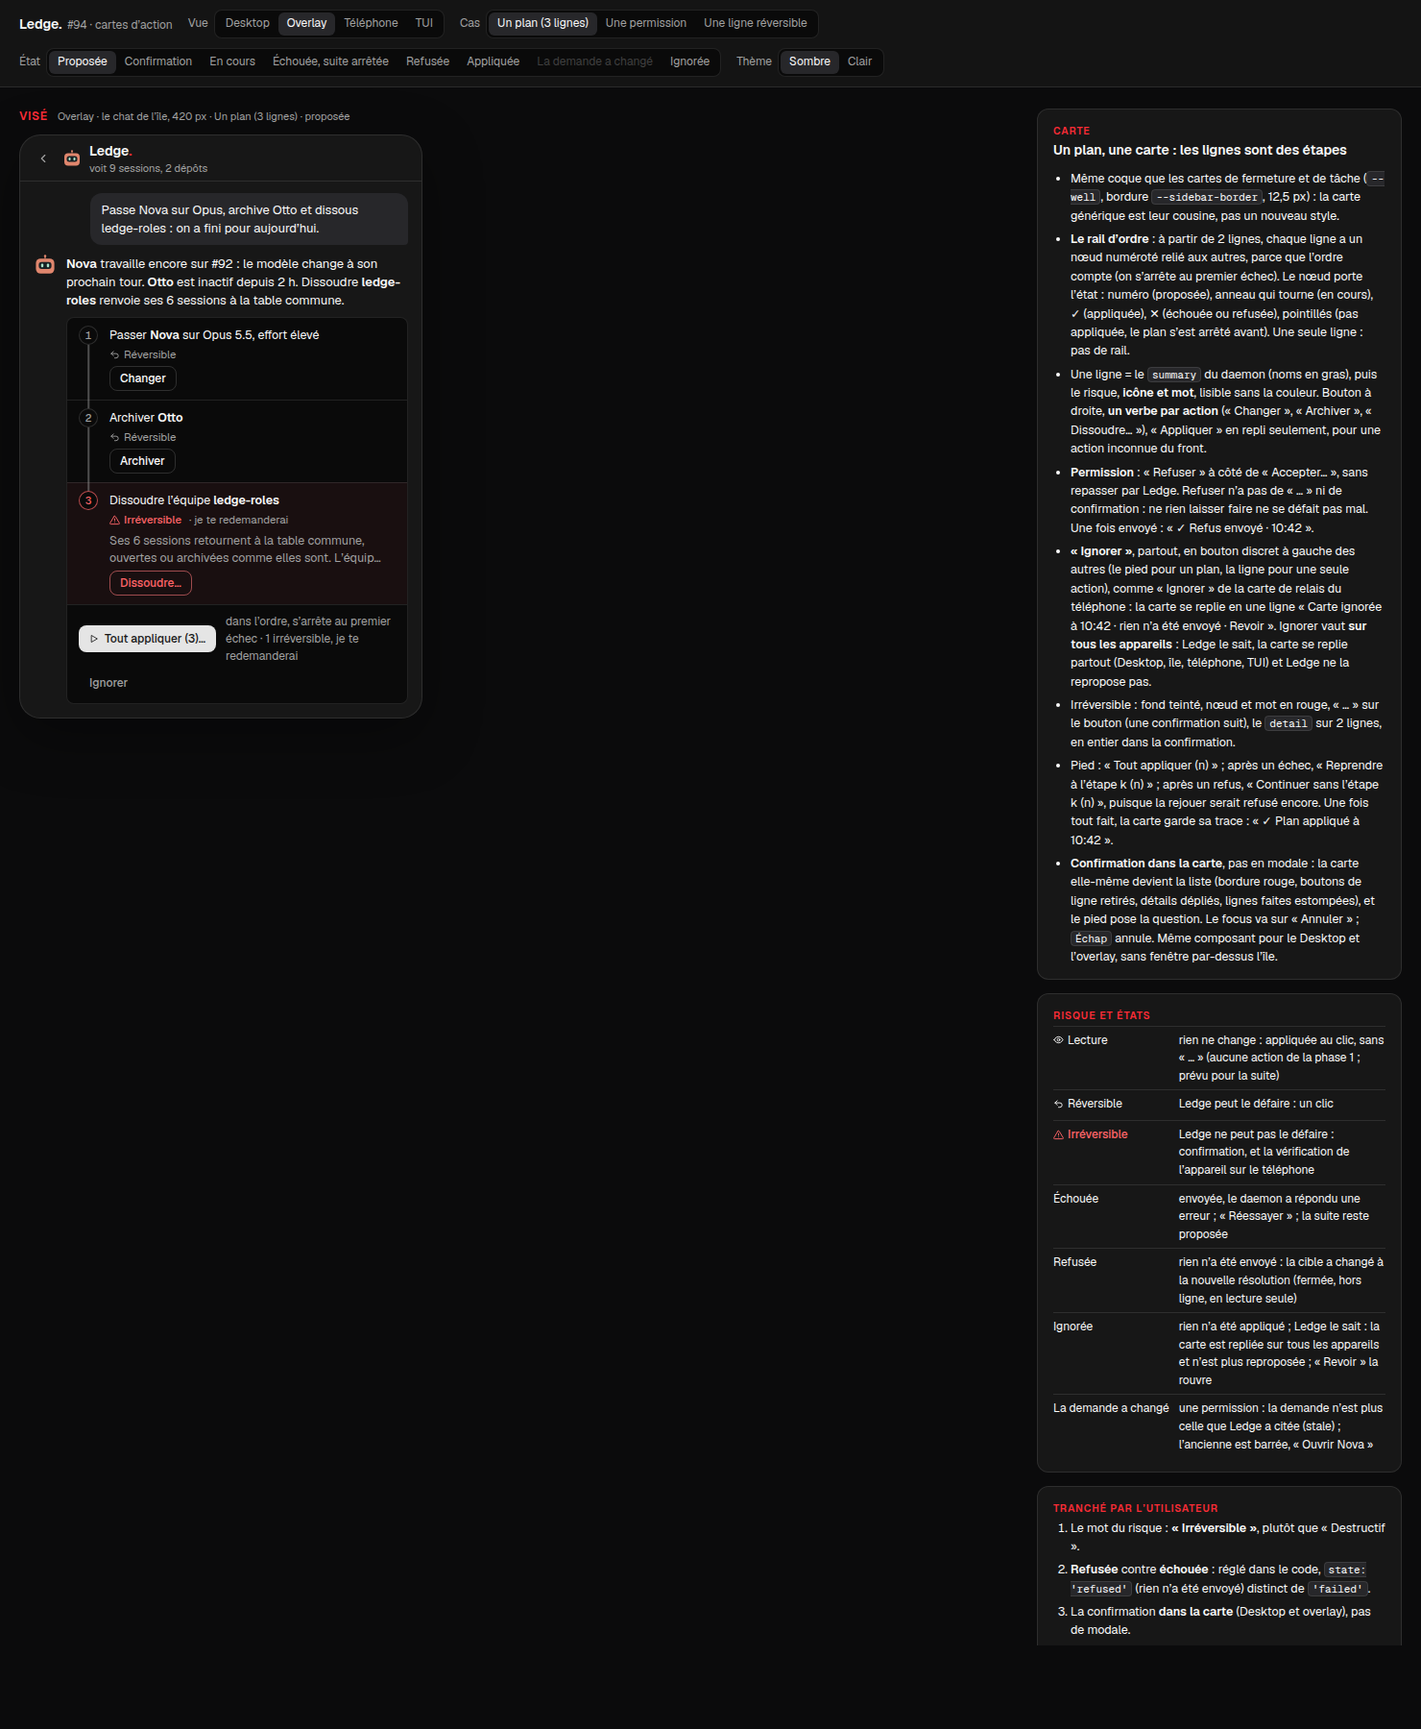
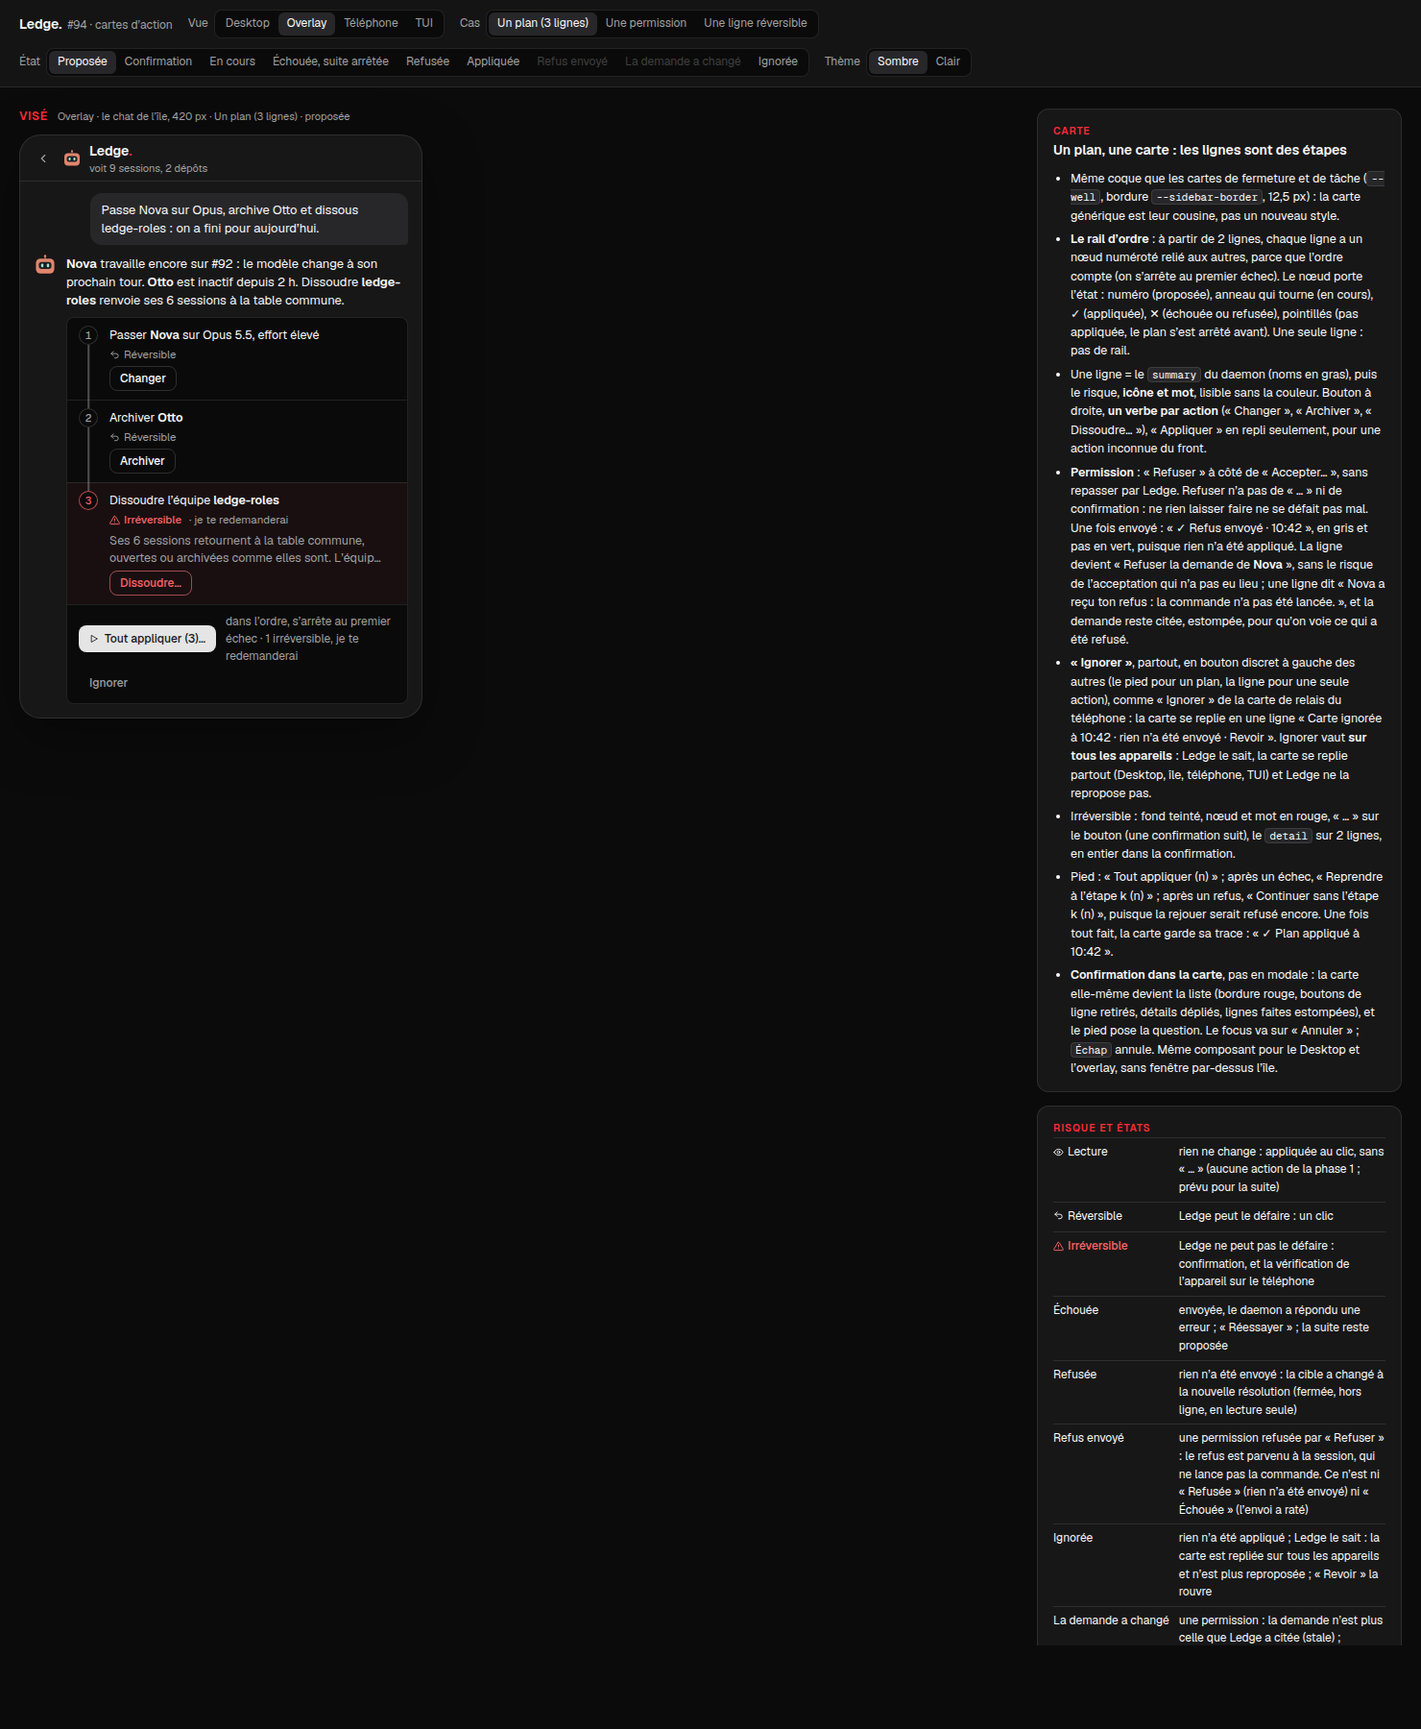
docs(mockups): action cards (#94) — the « Refus envoyé » state
A permission refused with « Refuser »: the no reached the session, nothing
ran. Not 'refused' (nothing sent) nor 'failed'. A new state, denied, in the
four views: the row reads « Refuser la demande de Nova » without the yes's
risk, « ✓ Refus envoyé · 10:42 » in grey, not green, the request kept and
faded; in the TUI the box goes and a line stays in the conversation. Its
row in the states table. 7 new captures, the 29 others redone (bar and
notes only).

Changed region(s): [[0.7459, 0.3111, 0.9635, 0.9644], [0.5284, 0.0311, 0.6216, 0.0622], [0.4662, 0.0311, 0.4973, 0.0622]]

diff --git a/docs/mockups/ledge-action-card.html b/docs/mockups/ledge-action-card.html
@@ -109,6 +109,7 @@ svg.i{width:12px;height:12px;flex:none;fill:none;stroke:currentColor;stroke-widt
 .clamp{display:-webkit-box;-webkit-line-clamp:2;-webkit-box-orient:vertical;overflow:hidden}
 .verbatim{margin:6px 0 0;padding:7px 9px;border:1px solid var(--sidebar-border);border-left:2px solid var(--muted-foreground);border-radius:4px;background:var(--sidebar);font:11.5px/17px 'Geist Mono',monospace;white-space:pre-wrap;overflow-wrap:anywhere;max-height:120px;overflow:auto;color:var(--sidebar-foreground)}
 .verbatim .k{display:block;font:500 10.5px/15px 'Geist',sans-serif;color:var(--muted-foreground);margin-bottom:2px}
+.verbatim.faded{opacity:.6}
 .verbatim.old{text-decoration:line-through;text-decoration-color:color-mix(in srgb,var(--muted-foreground) 60%,transparent);opacity:.6}
 .alert{margin-top:5px;color:var(--danger-text);overflow-wrap:anywhere}
 .quiet{margin-top:5px;color:var(--muted-foreground)}
@@ -242,6 +243,7 @@ const CASES = {
         detail: 'Ses 6 sessions retournent à la table commune, ouvertes ou archivées comme elles sont. L’équipe ne pourra plus être reprise.' }
     ],
     // Row states per step of the story: p proposed, run, done, fail, refused, held (not applied: the plan stopped before it).
+    // A permission adds denied (« Refuser » was sent: the session got the no) and stale.
     states: { ignored: ['p', 'p', 'p'], proposed: ['p', 'p', 'p'], confirm: ['p', 'p', 'p'], running: ['done', 'run', 'p'], failed: ['done', 'fail', 'held'], refused: ['done', 'refused', 'held'], done: ['done', 'done', 'done'] },
     why: { fail: 'Otto est sur la machine Atlas, hors ligne depuis 10:12.', refused: 'Otto a été fermé entre-temps : il n’y a plus rien à archiver.' }
   },
@@ -250,11 +252,11 @@ const CASES = {
     q: 'Accepte la demande de Nova.',
     a: '**Nova** attend ta réponse depuis 4 min, dans ledge sur feat/task-handoff. Voici sa demande telle quelle :',
     rows: [
-      { action: 'session.decide', risk: 'destructive', sum: 'Accepter la demande de **Nova**', btn: 'Accepter', deny: 'Refuser', tui: 'Accepter la demande de Nova',
+      { action: 'session.decide', risk: 'destructive', sum: 'Accepter la demande de **Nova**', btn: 'Accepter', deny: 'Refuser', tui: 'Accepter la demande de Nova', denied: 'Refuser la demande de **Nova**',
         request: { kind: 'Bash · reconstruire le daemon', text: 'rm -rf packages/ledge/dist && pnpm --filter @ledge/ledge build' },
         newRequest: { kind: 'Bash', text: 'git push --force origin feat/task-handoff' } }
     ],
-    states: { proposed: ['p'], confirm: ['p'], running: ['run'], failed: ['fail'], refused: ['refused'], done: ['done'], stale: ['stale'], ignored: ['p'] },
+    states: { proposed: ['p'], confirm: ['p'], running: ['run'], failed: ['fail'], refused: ['refused'], done: ['done'], denied: ['denied'], stale: ['stale'], ignored: ['p'] },
     why: { fail: 'Nova s’est arrêtée avant de recevoir la réponse.', refused: 'la machine Atlas est hors ligne.' }
   },
   one: {
@@ -266,7 +268,7 @@ const CASES = {
     why: { fail: 'Otto est sur la machine Atlas, hors ligne depuis 10:12.', refused: 'Otto a été fermé entre-temps.' }
   }
 };
-const ETATS = [['proposed', 'Proposée'], ['confirm', 'Confirmation'], ['running', 'En cours'], ['failed', 'Échouée, suite arrêtée'], ['refused', 'Refusée'], ['done', 'Appliquée'], ['stale', 'La demande a changé'], ['ignored', 'Ignorée']];
+const ETATS = [['proposed', 'Proposée'], ['confirm', 'Confirmation'], ['running', 'En cours'], ['failed', 'Échouée, suite arrêtée'], ['refused', 'Refusée'], ['done', 'Appliquée'], ['denied', 'Refus envoyé'], ['stale', 'La demande a changé'], ['ignored', 'Ignorée']];
 const AT = '10:42';
 
 function model() {
@@ -275,7 +277,7 @@ function model() {
   const states = c.states[st.etat];
   const many = c.rows.length > 1;
   const stopAt = states.findIndex(s => s === 'fail' || s === 'refused');
-  const open = c.rows.map((r, i) => i).filter(i => !['done', 'run'].includes(states[i]) && states[i] !== 'stale');
+  const open = c.rows.map((r, i) => i).filter(i => !['done', 'run', 'denied', 'stale'].includes(states[i]));
   const destructive = open.filter(i => c.rows[i].risk === 'destructive');
   // The plan's button: all of it, from the failed step again, or past a refused one (its target is gone: retrying it
   // would only be refused again).
@@ -296,9 +298,9 @@ function nodeOf(s, i) {
   return `<span class="node${s === 'held' ? ' held' : ''}" aria-label="Étape ${i + 1}">${i + 1}</span>`;
 }
 function riskChip(risk) { return `<span class="risk ${risk}" title="${RISK_TIP[risk]}">${ic(risk, 11)}${RISK[risk]}</span>`; }
-function request(r, old) {
+function request(r, old, faded) {
   const q = old ? r.request : r.request;
-  return `<pre class="verbatim${old ? ' old' : ''}"><span class="k">${esc(q.kind)}</span>${esc(q.text)}</pre>`;
+  return `<pre class="verbatim${old ? ' old' : ''}${faded ? ' faded' : ''}"><span class="k">${esc(q.kind)}</span>${esc(q.text)}</pre>`;
 }
 function rowHTML(m, i, narrow) {
   const { c, states, many, stopAt } = m, r = c.rows[i], s = states[i];
@@ -311,17 +313,21 @@ function rowHTML(m, i, narrow) {
   else if (s === 'done') side = `<span class="st ok">${ic('check', 11)} Appliquée · ${AT}</span>`;
   else if (s === 'fail') side = `${many ? '' : IGNORE}<button class="btn" type="button">Réessayer</button>`;
   else if (s === 'refused') side = `<span class="st">Refusée</span>`;
+  // Neutral, not green: the no reached the session, nothing was applied.
+  else if (s === 'denied') side = `<span class="st">${ic('check', 11)} Refus envoyé · ${AT}</span>`;
   else if (s === 'stale') side = `<button class="btn" type="button">${ic('ext', 11)}Ouvrir Nova</button>`;
-  let body = `<div class="sum">${md(r.sum)}</div>`;
-  body += `<div class="meta">${riskChip(r.risk)}${r.risk === 'destructive' && s === 'p' && !asking ? '<span>· je te redemanderai</span>' : ''}</div>`;
+  // Once the no is sent, the row says what was done, without the risk of the yes it did not run.
+  let body = `<div class="sum">${md(s === 'denied' ? r.denied : r.sum)}</div>`;
+  if (s !== 'denied') body += `<div class="meta">${riskChip(r.risk)}${r.risk === 'destructive' && s === 'p' && !asking ? '<span>· je te redemanderai</span>' : ''}</div>`;
   if (r.detail) body += `<div class="detail${asking || s === 'done' ? '' : ' clamp'}">${esc(r.detail)}</div>`;
-  if (r.request) body += s === 'stale' ? request(r, true) : request(r);
+  if (r.request) body += s === 'stale' ? request(r, true) : request(r, false, s === 'denied');
   if (s === 'fail') body += `<div class="alert" role="alert">Échec : ${esc(c.why.fail)}</div>`;
   if (s === 'refused') body += `<div class="alert" role="alert">Refusée : ${esc(c.why.refused)} Rien n’a été envoyé.</div>`;
   if (s === 'held') body += `<div class="quiet">Pas appliquée : le plan s’est arrêté à l’étape ${stopAt + 1}.</div>`;
   if (s === 'stale') body += `<div class="warnline">La demande de Nova a changé depuis ma réponse : rien n’a été envoyé. Ouvre Nova pour voir la nouvelle, ou redemande-moi.</div>`;
+  if (s === 'denied') body += `<div class="quiet">Nova a reçu ton refus : la commande n’a pas été lancée.</div>`;
   const dim = asking && s === 'done';
-  return `<div class="arow ${r.risk}${['done', 'stale', 'refused'].includes(s) ? ' settled' : ''}${dim ? ' dim' : ''}${i === c.rows.length - 1 ? ' last' : ''}">${many ? nodeOf(s, i) : ''}<div class="body">${body}</div>${narrow && side ? `<div class="side" style="grid-column:${many ? 2 : 1};justify-self:start">${side}</div>` : `<div class="side">${side}</div>`}</div>`;
+  return `<div class="arow ${r.risk}${['done', 'stale', 'refused', 'denied'].includes(s) ? ' settled' : ''}${dim ? ' dim' : ''}${i === c.rows.length - 1 ? ' last' : ''}">${many ? nodeOf(s, i) : ''}<div class="body">${body}</div>${narrow && side ? `<div class="side" style="grid-column:${many ? 2 : 1};justify-self:start">${side}</div>` : `<div class="side">${side}</div>`}</div>`;
 }
 function footHTML(m) {
   const { c, states, many, open, destructive, stopAt } = m;
@@ -373,14 +379,16 @@ function phone() {
     else if (s === 'done') act = `<span class="st ok">✓ Appliquée · ${AT}</span>`;
     else if (s === 'fail') act = `${many ? '' : '<button class="pbtn ghost" type="button">Ignorer</button>'}<button class="pbtn" type="button">Réessayer</button>`;
     else if (s === 'refused') act = `<span class="st">Refusée</span>`;
+    else if (s === 'denied') act = `<span class="st">✓ Refus envoyé · ${AT}</span>`;
     else if (s === 'stale') act = `<a class="pbtn" style="text-decoration:none">Ouvrir Nova</a>`;
-    let body = `<div class="sum">${md(r.sum)}</div><div class="meta">${riskChip(r.risk)}</div>`;
+    let body = s === 'denied' ? `<div class="sum">${md(r.denied)}</div>` : `<div class="sum">${md(r.sum)}</div><div class="meta">${riskChip(r.risk)}</div>`;
     if (r.detail) body += `<div class="detail${s === 'done' ? '' : ' clamp'}">${esc(r.detail)}</div>`;
-    if (r.request) body += request(r, s === 'stale');
+    if (r.request) body += request(r, s === 'stale', s === 'denied');
     if (s === 'fail') body += `<div class="alert">Échec : ${esc(c.why.fail)}</div>`;
     if (s === 'refused') body += `<div class="alert">Refusée : ${esc(c.why.refused)} Rien n’a été envoyé.</div>`;
     if (s === 'held') body += `<div class="quiet">Pas appliquée : le plan s’est arrêté à l’étape ${stopAt + 1}.</div>`;
     if (s === 'stale') body += `<div class="warnline">La demande a changé depuis : rien n’a été envoyé.</div>`;
+    if (s === 'denied') body += `<div class="quiet">Nova a reçu ton refus : la commande n’a pas été lancée.</div>`;
     return `<div class="prow ${r.risk}${i === c.rows.length - 1 ? ' last' : ''}">${many ? nodeOf(s, i) : ''}<div>${body}</div><div class="act">${act}</div></div>`;
   }).join('');
   let foot = '';
@@ -438,13 +446,14 @@ function tui() {
   conv.push([['']]);
   for (const l of wrapText(plain(c.a), W - 8)) conv.push([['  '], [l, 'c-fg']]);
   if (st.etat === 'ignored') { conv.push([['']]); conv.push([[`  · ${many ? `plan de ${c.rows.length} actions ignoré` : 'carte ignorée'} à ${AT}, rien n’a été envoyé`, 'c-faint']]); }
+  if (st.etat === 'denied') { conv.push([['']]); conv.push([['  ✓ ', 'c-dim'], [`Refus envoyé à Nova · ${AT} : la commande n’a pas été lancée`, 'c-fg']]); conv.push([[`    ${c.rows[0].request.text}`, 'c-faint']]); }
   if (states.every(s => s === 'done')) { conv.push([['']]); conv.push([[`  ✓ ${many ? `Plan appliqué à ${AT} : Nova sur Opus 5.5 · Otto archivé · ledge-roles dissoute` : `${plain(c.rows[0].sum)} · ${AT}`}`, 'c-green']]); }
   L.push(boxTop('Ledge · Opérateur · voit 9 sessions, 1 machine', 'c-line', 'c-dim'));
   for (const s of conv) L.push(inBox(s, 'c-line'));
   for (let i = conv.length; i < 9; i++) L.push(inBox([['']], 'c-line'));
   L.push(bottom('c-line'));
   // The card, while something is left to do.
-  const settled = states.every(s => s === 'done') || st.etat === 'ignored';
+  const settled = states.every(s => s === 'done') || ['ignored', 'denied'].includes(st.etat);
   if (!settled) {
     const asking = m.asking;
     const border = asking ? 'c-red dbl' : 'c-coral';
@@ -505,7 +514,7 @@ const NOTES = {
     <li>Même coque que les cartes de fermeture et de tâche (<code>--well</code>, bordure <code>--sidebar-border</code>, 12,5 px) : la carte générique est leur cousine, pas un nouveau style.</li>
     <li><b>Le rail d’ordre</b> : à partir de 2 lignes, chaque ligne a un nœud numéroté relié aux autres, parce que l’ordre compte (on s’arrête au premier échec). Le nœud porte l’état : numéro (proposée), anneau qui tourne (en cours), ✓ (appliquée), ✕ (échouée ou refusée), pointillés (pas appliquée, le plan s’est arrêté avant). Une seule ligne : pas de rail.</li>
     <li>Une ligne = le <code>summary</code> du daemon (noms en gras), puis le risque, <b>icône et mot</b>, lisible sans la couleur. Bouton à droite, <b>un verbe par action</b> (« Changer », « Archiver », « Dissoudre… »), « Appliquer » en repli seulement, pour une action inconnue du front.</li>
-    <li><b>Permission</b> : « Refuser » à côté de « Accepter… », sans repasser par Ledge. Refuser n’a pas de « … » ni de confirmation : ne rien laisser faire ne se défait pas mal. Une fois envoyé : « ✓ Refus envoyé · 10:42 ».</li>
+    <li><b>Permission</b> : « Refuser » à côté de « Accepter… », sans repasser par Ledge. Refuser n’a pas de « … » ni de confirmation : ne rien laisser faire ne se défait pas mal. Une fois envoyé : « ✓ Refus envoyé · 10:42 », en gris et pas en vert, puisque rien n’a été appliqué. La ligne devient « Refuser la demande de <b>Nova</b> », sans le risque de l’acceptation qui n’a pas eu lieu ; une ligne dit « Nova a reçu ton refus : la commande n’a pas été lancée. », et la demande reste citée, estompée, pour qu’on voie ce qui a été refusé.</li>
     <li><b>« Ignorer »</b>, partout, en bouton discret à gauche des autres (le pied pour un plan, la ligne pour une seule action), comme « Ignorer » de la carte de relais du téléphone : la carte se replie en une ligne « Carte ignorée à 10:42 · rien n’a été envoyé · Revoir ». Ignorer vaut <b>sur tous les appareils</b> : Ledge le sait, la carte se replie partout (Desktop, île, téléphone, TUI) et Ledge ne la repropose pas.</li>
     <li>Irréversible : fond teinté, nœud et mot en rouge, « … » sur le bouton (une confirmation suit), le <code>detail</code> sur 2 lignes, en entier dans la confirmation.</li>
     <li>Pied : « Tout appliquer (n) » ; après un échec, « Reprendre à l’étape k (n) » ; après un refus, « Continuer sans l’étape k (n) », puisque la rejouer serait refusé encore. Une fois tout fait, la carte garde sa trace : « ✓ Plan appliqué à 10:42 ».</li>
@@ -513,7 +522,7 @@ const NOTES = {
   phone: `<div class="note"><h3>Téléphone</h3><h4>La même carte, une feuille pour confirmer</h4><ul>
     <li>Les jetons du téléphone (sombre seulement), les boutons de 44 px, le bouton de ligne <b>sous</b> le texte : la largeur ne permet pas de les mettre côte à côte.</li>
     <li>Confirmer ouvre une feuille par le bas qui reprend chaque ligne à appliquer avec son détail entier, puis la vérification de l’appareil (<code>ConfirmPurpose</code> <code>act</code>, sujet le qid ; <code>decide</code> pour une permission). Le texte est celui de la confirmation actuelle (« Elle confirme votre identité, pas la sûreté de la commande »).</li>
-    <li>« Ignorer » en bouton fantôme à gauche, comme la carte de relais ; pour une permission, trois boutons sur une ligne : Ignorer, Refuser, Accepter…. Ignorée ici, la carte l’est aussi sur le Desktop et dans la TUI.</li>
+    <li>« Ignorer » en bouton fantôme à gauche, comme la carte de relais ; pour une permission, trois boutons sur une ligne : Ignorer, Refuser, Accepter…. Refuser n’ouvre pas de feuille (pas de vérification) : la ligne passe à « ✓ Refus envoyé · 10:42 ». Ignorée ici, la carte l’est aussi sur le Desktop et dans la TUI.</li>
     <li>Une ligne réversible sans vérification (<code>phone: null</code>) s’applique au toucher, sans feuille.</li>
     <li>Vérification annulée ou expirée : la carte reste proposée et dit « Vérification annulée. Rien n’a été envoyé. » (texte existant).</li></ul></div>`,
   tui: `<div class="note"><h3>TUI</h3><h4>Une boîte de plus, des lignes qu’on choisit</h4><ul>
@@ -521,7 +530,7 @@ const NOTES = {
     <li><kbd>↑</kbd><kbd>↓</kbd> choisit la ligne (▸), <kbd>↵</kbd> l’applique, <kbd>a</kbd> applique tout. Le détail d’une ligne irréversible est toujours affiché, en estompé.</li>
     <li>Confirmer : la boîte passe au rouge, en trait double, liste tout, et ne se valide qu’avec <kbd>y</kbd>. <kbd>↵</kbd> ne confirme pas, pour qu’un double appui ne dissolve rien.</li>
     <li>La demande d’une permission est citée en entier, repliée sur la largeur, jamais tronquée.</li>
-    <li>Permission : <kbd>n</kbd> refuse, comme sur la carte de session. <kbd>esc</kbd> ignore la carte (comme la carte de lancement de Demander) ; la boîte disparaît et une ligne estompée reste dans la conversation. Ignorée ici, elle l’est partout : Ledge ne la repropose pas.</li>
+    <li>Permission : <kbd>n</kbd> refuse, comme sur la carte de session ; la boîte disparaît et une ligne reste dans la conversation, « ✓ Refus envoyé à Nova · 10:42 », suivie de la commande en estompé. <kbd>esc</kbd> ignore la carte (comme la carte de lancement de Demander) ; la boîte disparaît et une ligne estompée reste dans la conversation. Ignorée ici, elle l’est partout : Ledge ne la repropose pas.</li>
     <li>Une fois tout fait, la boîte disparaît et une ligne verte reste dans la conversation, comme pour l’équipe et les tâches.</li></ul></div>`,
   risks: `<div class="note"><h3>Risque et états</h3><table>
     <tr><td>${riskChip('read')}</td><td>rien ne change : appliquée au clic, sans « … » (aucune action de la phase 1 ; prévu pour la suite)</td></tr>
@@ -529,6 +538,7 @@ const NOTES = {
     <tr><td>${riskChip('destructive')}</td><td>Ledge ne peut pas le défaire : confirmation, et la vérification de l’appareil sur le téléphone</td></tr>
     <tr><td>Échouée</td><td>envoyée, le daemon a répondu une erreur ; « Réessayer » ; la suite reste proposée</td></tr>
     <tr><td>Refusée</td><td>rien n’a été envoyé : la cible a changé à la nouvelle résolution (fermée, hors ligne, en lecture seule)</td></tr>
+    <tr><td>Refus envoyé</td><td>une permission refusée par « Refuser » : le refus est parvenu à la session, qui ne lance pas la commande. Ce n’est ni « Refusée » (rien n’a été envoyé) ni « Échouée » (l’envoi a raté)</td></tr>
     <tr><td>Ignorée</td><td>rien n’a été appliqué ; Ledge le sait : la carte est repliée sur tous les appareils et n’est plus reproposée ; « Revoir » la rouvre</td></tr>
     <tr><td>La demande a changé</td><td>une permission : la demande n’est plus celle que Ledge a citée (stale) ; l’ancienne est barrée, « Ouvrir Nova »</td></tr></table></div>`
 };
